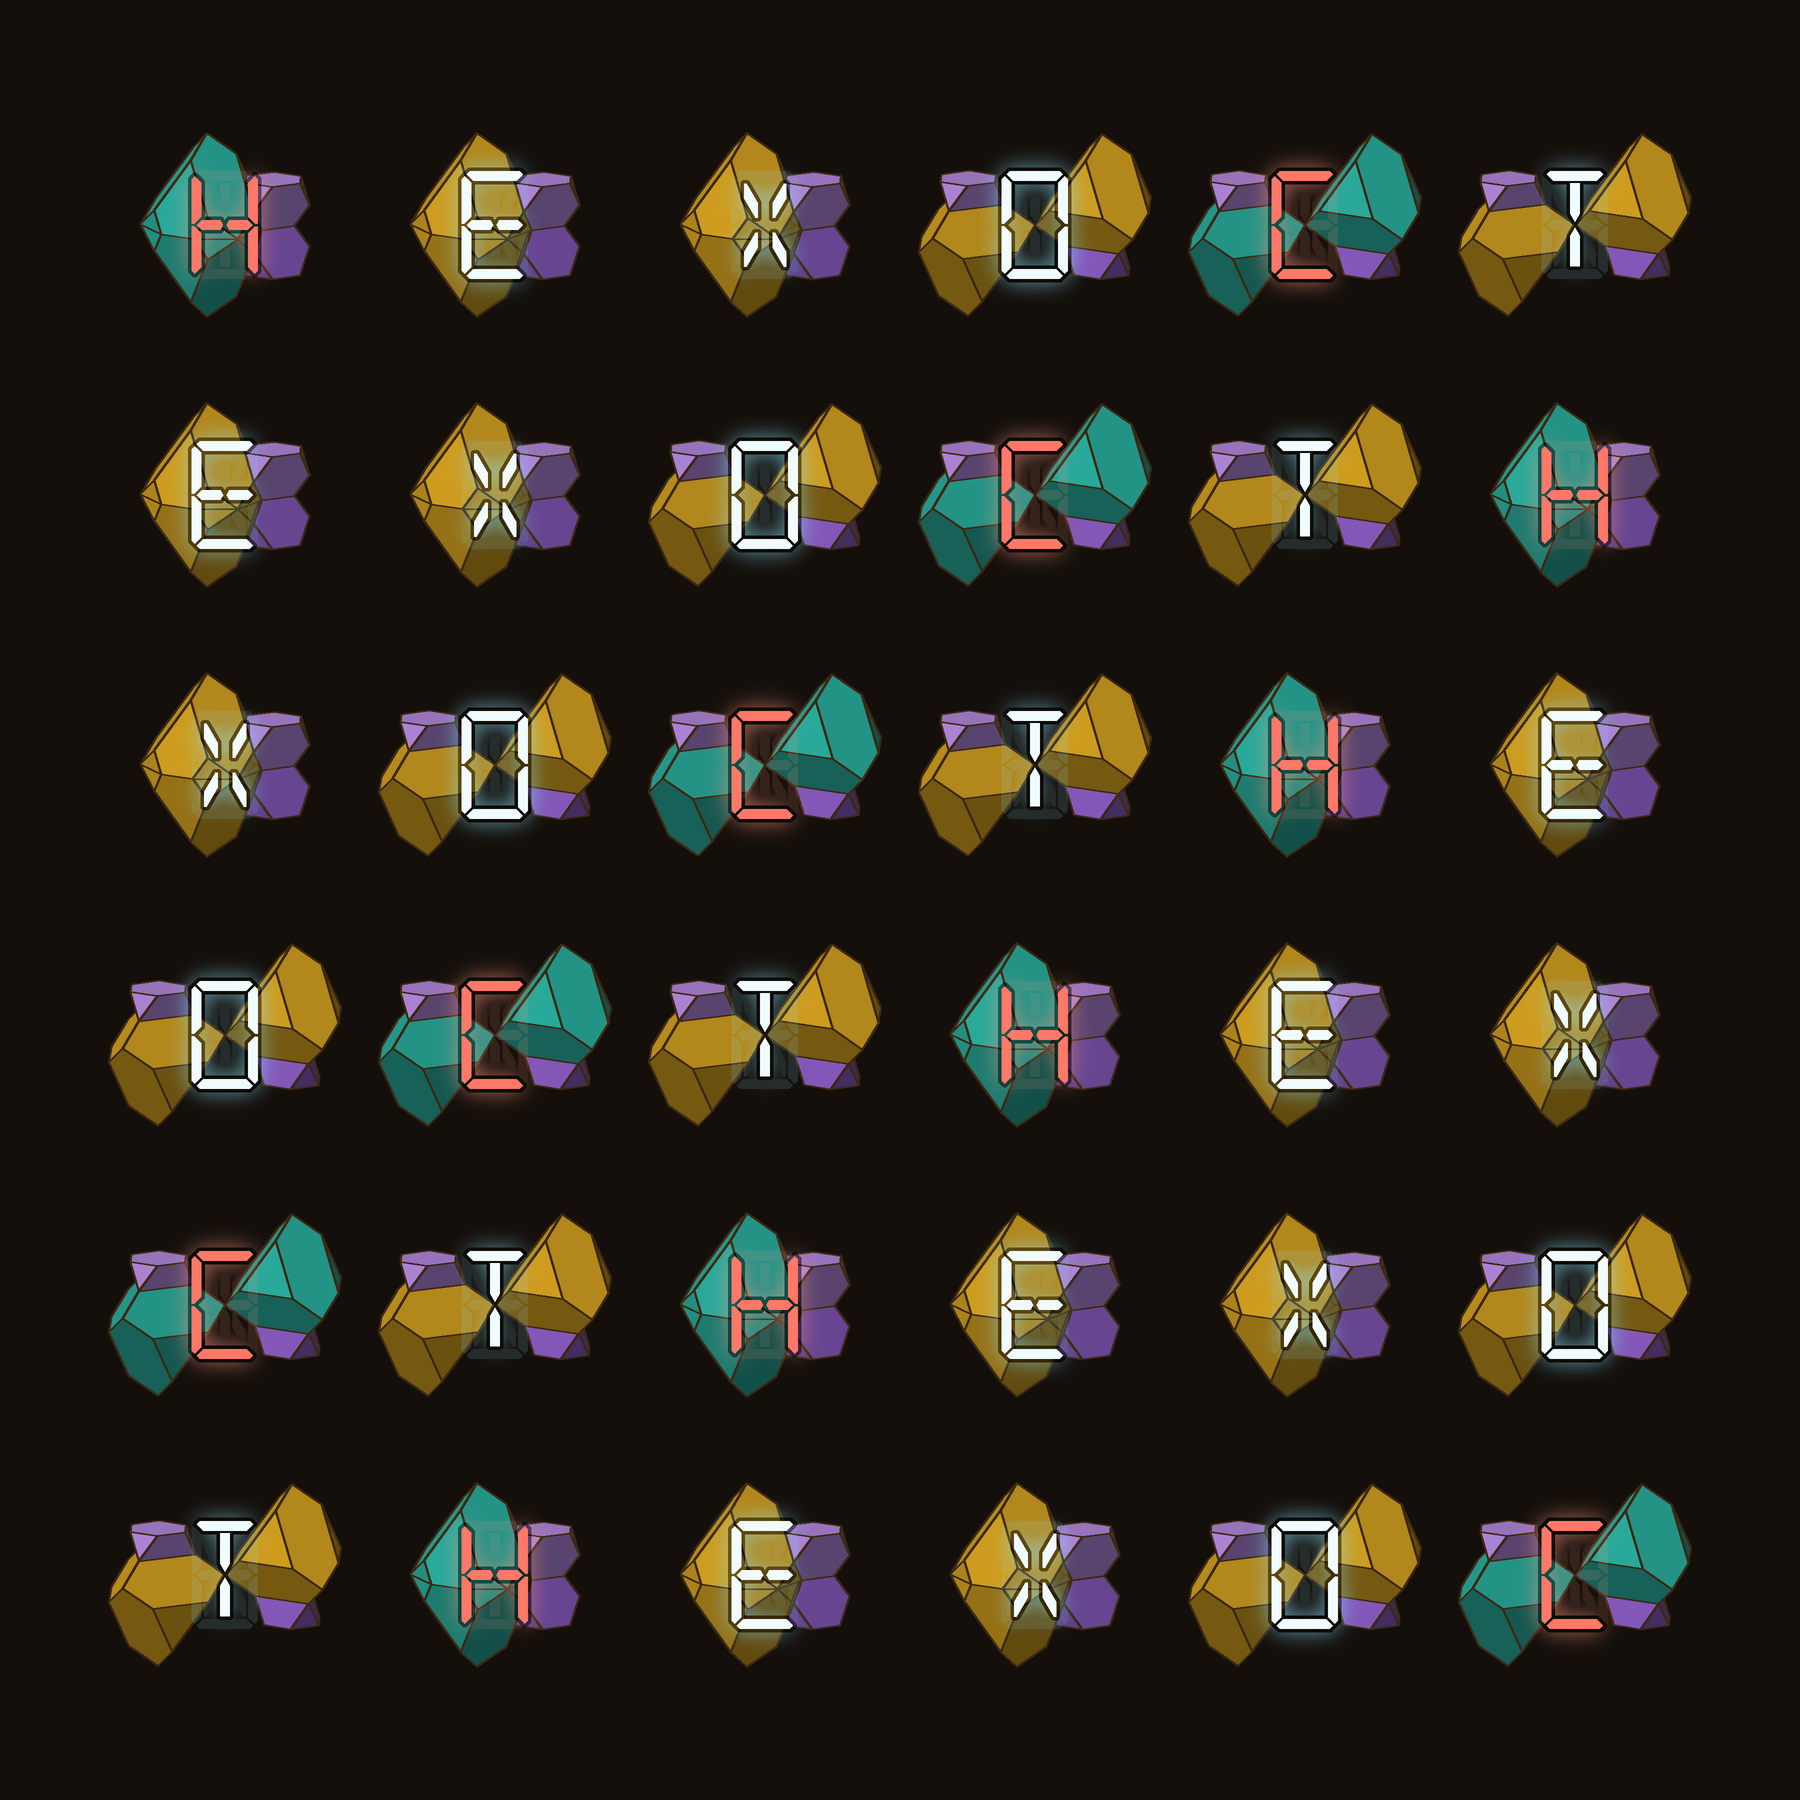
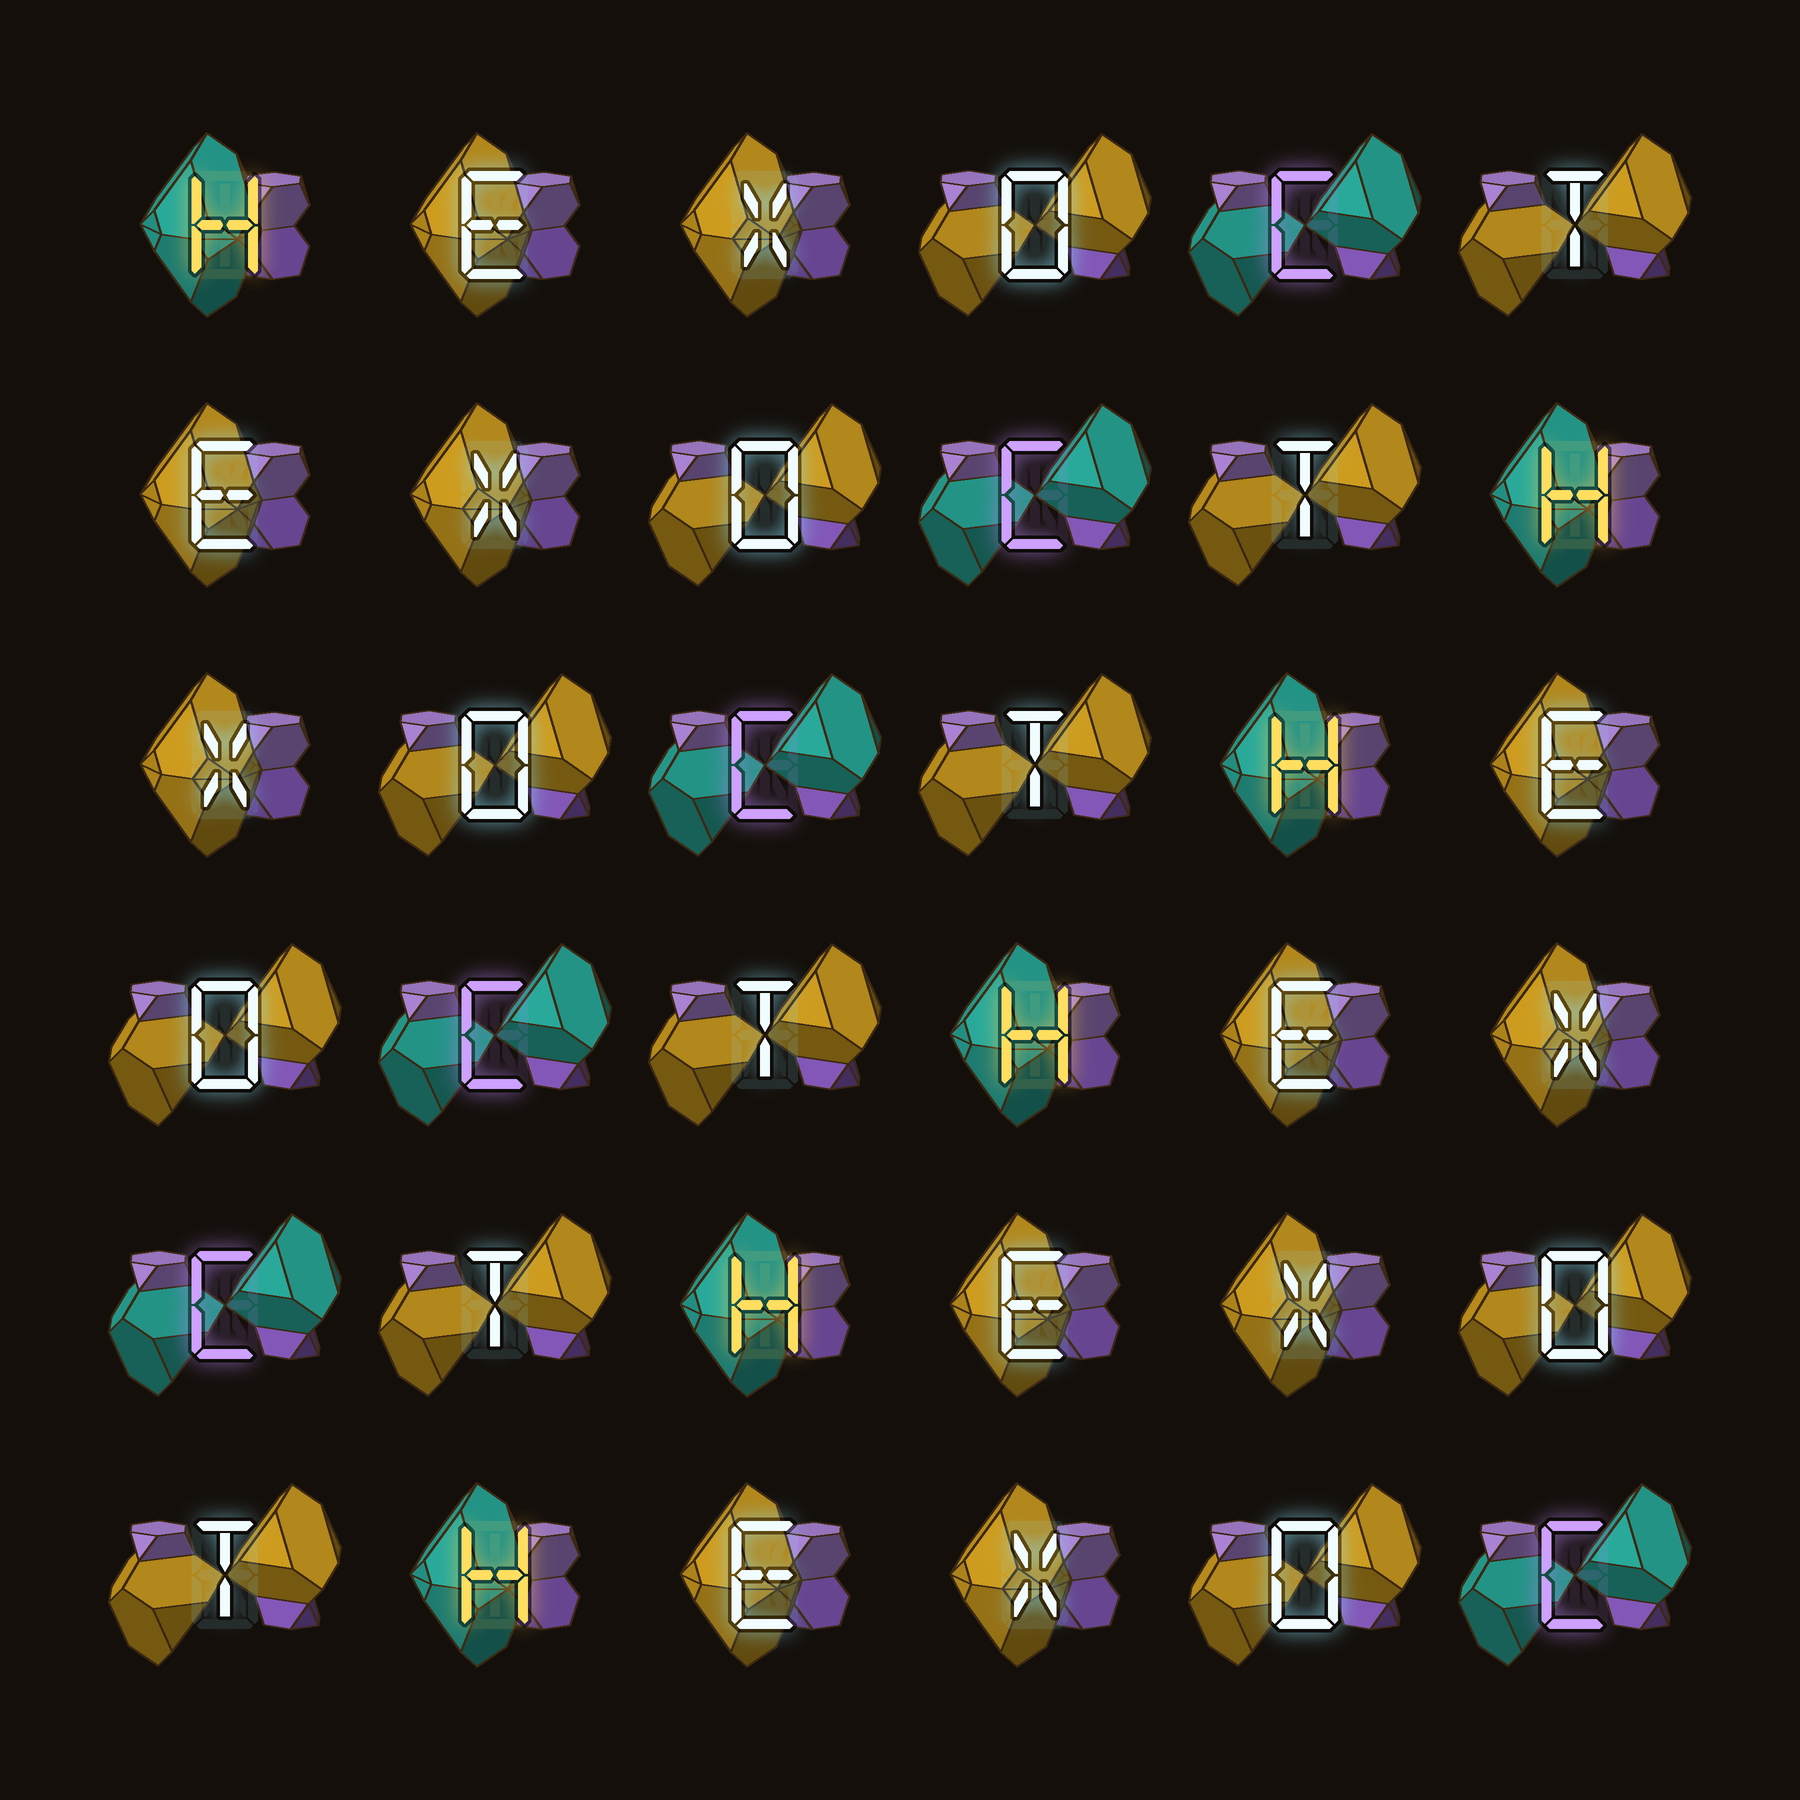
HexOct square: H yellow, C purple, the pieces' colourway (DICTO 10-29)

diff --git a/studies/2026-10-29-hexoct-cover/scripts/hexoct_square.py b/studies/2026-10-29-hexoct-cover/scripts/hexoct_square.py
@@ -65,8 +65,9 @@ def carved(ch):
     On, Rim, Ghost = lay(ch), lay(ch, edge), lay('~')
     glow = ndimage.gaussian_filter(On, 0.006 * W); glow /= glow.max()
     core = np.array([240, 252, 255.]); halo = np.array([140, 230, 255.]); dim = np.array([70, 62, 52.])
-    if ch in 'HC':   # DICTO: H and C, the letters on their own tile (teal), in the opposite colour, coral
-        core = np.array([255, 120, 104.]); halo = np.array([255, 150, 130.])
+    # DICTO: H and C, the letters on their own tile (teal), in the pieces' colourway: H yellow (gold), C purple (violet)
+    if ch == 'H': core = np.array([255, 222, 96.]); halo = np.array([255, 205, 80.])
+    if ch == 'C': core = np.array([206, 160, 255.]); halo = np.array([180, 132, 240.])
     rgb = (core * On[..., None] + halo * (1 - On[..., None])) * (On + 0.6 * glow)[..., None] / np.maximum(On + 0.6 * glow, 1e-6)[..., None]
     # dark edges at half strength (DICTO: "halfway back"), so the tile colours still come through; unlit segments a faint veil
     rim = (Rim - On) > 0.3

diff --git a/studies/2026-10-29-hexoct-cover/README.md b/studies/2026-10-29-hexoct-cover/README.md
@@ -2,7 +2,7 @@
 
 DICTO's idea (2026-10-29): a square cover for "HexOct: The Laws of Stacking" like the DICTO square, 6 × 6, letters H E X O C T, with the two HexOct tiles.
 
-**Conclusion:** LED cover: upright DSEG14 Classic, letters 0.06 of the width, dark letter edges at half strength, H and C (on their own tile, teal) lit in the opposite colour, coral; other letters cool white. Status: final candidate, awaiting DICTO.
+**Conclusion:** LED cover: upright DSEG14 Classic, letters 0.06 of the width, dark letter edges at half strength, H and C (on their own tile, teal) lit in the pieces' colourway, H yellow, C purple (coral tried first); other letters cool white. Status: final candidate, awaiting DICTO.
 
 - Cyclic Latin square: cell (i, j) holds letter (i + j) mod 6 of HEXOCT. HEXOCT reads across the top and down the left; each letter appears once in every row and every column and runs in one diagonal stripe.
 - Shapes: H, E, X on the h-tile and O, C, T on the c-tile (Hex | Oct). The tiles are the exact c-tile (from ABC) and h-tile (from AB) of #75 at λ = 1/10, built by tiles.py. Colours as in #75: tetrahedral pieces gold, octahedral halves violet. Same view and scale for both tiles.
